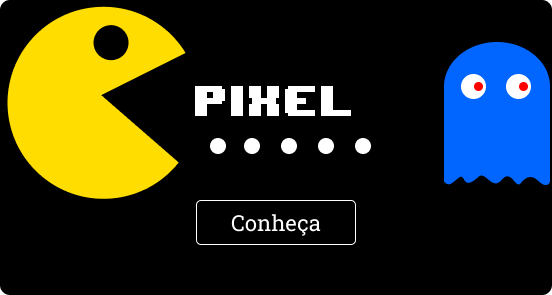
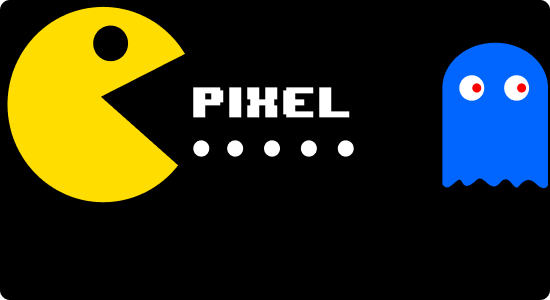
home completa

diff --git a/assets/css/styles.css b/assets/css/styles.css
@@ -82,11 +82,15 @@ img.img-fluid {
   border: 1px solid #6699ff;
   filter: brightness(0.645);
 }
+.form-email-contact input{
+  border-color: #004C92;
+  border-width: 2px;
+}
 
 .form-email-contact{
   background: #F2F2F2;
-  padding: 50px 0;
   margin: 0 auto;
+  border-top: 3px solid #4F4F4F;
 }
 .title-email-home{
   background: #F2F2F2;
@@ -94,17 +98,13 @@ img.img-fluid {
   margin: 0 auto;
 }
 
-.form-home .form-group .form-control:focus {
-  border: 2px solid #00cc0050;
-  box-shadow: 0 0 15px #00cc0050;
-}
-
 .title-home {
   font-weight: 100;
 }
 
-.main-text-home {
+.paragrafo {
   font-size: 20px;
+  line-height: 35px;
 }
 
 .text-comment-name {
@@ -118,6 +118,9 @@ img.img-fluid {
 a.active {
   color: #6699FF;
   text-decoration: underline;
+}
+button:focus {
+  outline-color: #6699FF;
 }
 .quem-somos .card {
   max-width:  480px;
@@ -193,4 +196,9 @@ article > .bg-opacidade {
 .acao-aventura .banner-2 {
   background: url(../images/rio-artigo.png) center;
   background-size: cover;
+}
+.btn-conheca {
+  bottom: 50px;
+  left: 50%;
+  transform: translate(-50%);
 }

diff --git a/pages/home.php b/pages/home.php
@@ -1,21 +1,15 @@
-<main class="pagina-home container mt-5">
-    <div class="row d-flex justify-content-center">
-        <div class="col-lg-8 text-center">
-            <h1 class="title-home">Jogos que são lançados aqui no Brasil mas não temos a menor ideia. </h1>
-        </div>
-    </div>
-    <div class="row autor-postagem pt-5 mt-3">
-        <figure class="col-lg-6 d-flex justify-content-md-start justify-content-sm-center">
+<main class="pagina-home container-md">
+    <h1 class="font-weight-bold my-5">Jogos que são lançados aqui no Brasil mas não temos a menor ideia. </h1>
+    <section class="row mb-3 align-items-center">
+        <figure class="d-flex mb-0 col-6">
             <img src="./assets/images/alex_sm.png" class="rounded-circle img-perfil mr-3" alt="Imagem de perfil do autor da postagem">
-            <figcaption>
-                <div class="d-flex">
-                    <p class="font-weight-normal mb-0 nome">Alex Teixeira</p>
-                    <a href="#" class="btn btn-success bg-transparent text-success ml-3 p-1" target="_blank">Seguir</a>
-                </div>
-                <p class="font-weight-light mb-0 mt-1">22 de setembro de 2020</p>
+            <figcaption class="row align-items-center">
+                <p class="font-weight-light mb-0 col-auto">Alex Teixeira</p>
+                <a href="#" class="btn btn-success bg-transparent text-success ml-3 p-1 col-auto" target="_blank">Seguir</a>
+                <p class="font-weight-light mb-0 mt-2 col-12">22 de setembro de 2020</p>
             </figcaption>
         </figure>
-        <ul class="list-inline d-flex mb-0 col-lg-6 p-sm-5 align-items-center justify-content-end justify-content-sm-center">
+        <ul class="list-inline d-flex col-6 mb-0 justify-content-end">
             <li class="mx-3">
                 <a href="https://www.facebook.com/" target="_blank">
                     <img src="./assets/icons/facebook-black.svg" alt="Logomarca Facebook">
@@ -37,120 +31,106 @@
                 </a>
             </li>
         </ul>
-    </div>
-    <div class="row">
-        <div class="col-12">
-            <img class="img-fluid" src="./assets/images/banner_home.jpg" alt="Um homem utilizando seu computador">
-        </div>
-    </div>
-    <div class="row">
-        <div class="modal fade" id="modalExemplo" tabindex="-1" role="dialog" aria-labelledby="exampleModalLabel" aria-hidden="true">
-            <div class="modal-dialog" role="document">
-                <div class="modal-content">
-                    <div class="modal-header">
-                        <h5 class="modal-title" id="exampleModalLabel">Comentários</h5>
-                        <button type="button" class="close" data-dismiss="modal" aria-label="Fechar">
-                            <span aria-hidden="true">&times;</span>
-                        </button>
-                    </div>
-                    <div class="modal-body">
-                        <p>POST SHOW ALEX!</p>
-                        <small class="text-comment-name">MrFall</small>
-                        <hr>
-                        <p>PARABENS!!!</p>
-                        <small class="text-comment-name">shaolinmatadordeporco</small>
-                        <hr>
-                        <p>SURPREENDENTE!!!</p>
-                        <small class="text-comment-name">viniccius13</small>
-                        <hr>
-                    </div>
-                    <div class="modal-footer">
-                        <button type="button" class="btn btn-secondary" data-dismiss="modal">Fechar</button>
-                    </div>
-                </div>
-            </div>
-        </div>
+        <img class="img-fluid mt-3" src="./assets/images/banner_home.jpg" alt="Um homem utilizando seu computador">
         <div class="col-3 d-flex align-items-center reacoes p-4">
             <img class="m-1" src="./assets/icons/like.svg" alt="Icone de joia representando 'gostei'">
-            <p class="m-1">12k</p>
+            <span class="m-1">12k</span>
             <img class="m-1" data-toggle="modal" data-target="#modalExemplo" src="./assets/icons/comentarios.svg" alt="Icone de chat representando 'número de comentários'">
-            <p class="m-1">39</p>
+            <span class="m-1">39</span>
             <img class="m-1" src="./assets/icons/save.svg" alt="Icone de coração representando 'salvar'">
-            <p class="m-1">Salvar</p>
+            <span class="m-1">Salvar</span>
         </div>
-    </div>
-    <div class="row d-flex justify-content-center align-items-center">
-        <div class="col-12 col-lg-9">
-            <p class="main-text-home">
-                Lorem ipsum dolor sit amet, consectetur adipiscing elit. Mauris lacinia semper aliquet. Nunc suscipit ullamcorper elit sit amet finibus. Ut et velit fringilla magna tempus ultrices facilisis et leo. Duis a metus eu justo accumsan auctor. Sed eu odio magna. Suspendisse enim dolor, consectetur quis ullamcorper sed, imperdiet non ex. Proin eros dolor, dictum vel lacinia eu, commodo quis sapien. Suspendisse laoreet leo vel lectus gravida, non faucibus velit euismod. Cras vulputate pulvinar porttitor. Vivamus vitae tempor nisi. Sed fermentum sapien augue, sodales blandit mauris porttitor nec. Etiam efficitur odio id imperdiet sollicitudin. Donec auctor dui id lacus tempor, et aliquet risus viverra. Pellentesque dolor lectus, lobortis id ante condimentum, tincidunt elementum risus.
-            </p>
-
-            <p class="main-text-home">Duis nec sollicitudin nisi. Nunc eget pellentesque purus. Donec sed condimentum ipsum. Phasellus non vulputate magna. Vestibulum nec dignissim tortor. Nulla ultricies, orci et blandit fermentum, metus dolor interdum lacus, eget luctus nisi felis et quam. Fusce egestas euismod erat sit amet eleifend. Donec porta, nulla id ullamcorper maximus, magna arcu tincidunt nisl, ac ultricies mi risus ornare ex. Sed purus ligula, fringilla a diam vitae, aliquam gravida nisi. Vivamus accumsan iaculis turpis, id elementum erat suscipit ac. Nulla non tempor massa.</p>
-        </div>
-    </div>
-    <div class="row d-flex justify-content-center align-items-center">
-        <div class="col-lg-4 col-md-9 text-center">
-            <img src="./assets/images/artigo-home.png" class="img-fluid mb-2" alt="Uma mesa de madeira com um teclado preto, um celular, notebook, caixa de som e um monitor">
-        </div>
-        <div class="col-lg-5 col-md-9">
-            <p class="main-text-home">Duis nec sollicitudin nisi. Nunc eget pellentesque purus. Donec sed condimentum ipsum. Phasellus non vulputate magna. Vestibulum nec dignissim tortor. Nulla ultricies, orci et blandit fermentum, metus dolor interdum lacus, eget luctus nisi felis et quam. Fusce egestas euismod erat sit amet eleifend. Donec porta, nulla id ullamcorper maximus, magna arcu tincidunt nisl, ac ultricies mi risus ornare ex. Sed purus ligula, fringilla a diam vitae, aliquam gravida nisi. Vivamus accumsan iaculis turpis, id elementum erat suscipit ac. Nulla non tempor massa.</p>
-        </div>
-    </div>
-    <div class="row m-2 mt-4 m-lg-5 d-flex justify-content-center align-items-center">
-        <div class="col-12 col-lg-6 text-center">
-            <h3>Conheça os estilos de jogos que são lançados aqui no Brasil e as empresas que os criaram.</h3>
-            <hr>
-        </div>
-    </div>
-    <div class="row m-lg-4">
-        <div class="col-lg-6 col-md-12 text-center games-home">
-            <div class="terror">
-                <a href="./index.php?view=terror"><img class="img-fluid m-lg-2 mb-4 mb-lg-0" src="./assets/images/terror.png" alt="Ilustração de um cartão com desenhos sobre jogos de terror"></a>
+    </section>
+    <section class="row justify-content-center">
+        <p class="paragrafo col-11">
+            Lorem ipsum dolor sit amet, consectetur adipiscing elit. Mauris lacinia semper aliquet. Nunc suscipit ullamcorper elit sit amet finibus. Ut et velit fringilla magna tempus ultrices facilisis et leo. Duis a metus eu justo accumsan auctor. Sed eu odio magna. Suspendisse enim dolor, consectetur quis ullamcorper sed, imperdiet non ex. Proin eros dolor, dictum vel lacinia eu, commodo quis sapien. Suspendisse laoreet leo vel lectus gravida, non faucibus velit euismod. Cras vulputate pulvinar porttitor. Vivamus vitae tempor nisi. Sed fermentum sapien augue, sodales blandit mauris porttitor nec. Etiam efficitur odio id imperdiet sollicitudin. Donec auctor dui id lacus tempor, et aliquet risus viverra. Pellentesque dolor lectus, lobortis id ante condimentum, tincidunt elementum risus.
+        </p>
+        <p class="paragrafo col-11">Duis nec sollicitudin nisi. Nunc eget pellentesque purus. Donec sed condimentum ipsum. Phasellus non vulputate magna. Vestibulum nec dignissim tortor. Nulla ultricies, orci et blandit fermentum, metus dolor interdum lacus, eget luctus nisi felis et quam. Fusce egestas euismod erat sit amet eleifend. Donec porta, nulla id ullamcorper maximus, magna arcu tincidunt nisl, ac ultricies mi risus ornare ex. Sed purus ligula, fringilla a diam vitae, aliquam gravida nisi. Vivamus accumsan iaculis turpis, id elementum erat suscipit ac. Nulla non tempor massa.</p>
+        <figure class="col-12 col-md-4 m-0">
+            <img src="./assets/images/artigo-home.png" class="d-none d-md-block img-fluid" alt="Uma mesa de madeira com um teclado preto, um celular, notebook, caixa de som e um monitor">
+            <img src="./assets/images/artigo-home-md.png" class="d-block d-md-none img-fluid" alt="Uma mesa de madeira com um teclado preto, um celular, notebook, caixa de som e um monitor">
+        </figure>
+        <p class="paragrafo col-12 col-md-8">Duis nec sollicitudin nisi. Nunc eget pellentesque purus. Donec sed condimentum ipsum. Phasellus non vulputate magna. Vestibulum nec dignissim tortor. Nulla ultricies, orci et blandit fermentum, metus dolor interdum lacus, eget luctus nisi felis et quam. Fusce egestas euismod erat sit amet eleifend. Donec porta, nulla id ullamcorper maximus, magna arcu tincidunt nisl, ac ultricies mi risus ornare ex. Sed purus ligula, fringilla a diam vitae, aliquam gravida nisi. Vivamus accumsan iaculis turpis, id elementum erat suscipit ac. Nulla non tempor massa.</p>
+    </section>
+    <section class="my-5">
+        <h2 class="px-2">Conheça os estilos de jogos que são lançados <br> aqui no Brasil e as empresas que os criaram.</h2>
+        <hr class="mb-5">
+        <div class="row">
+            <div class="col-12 col-md-6 mb-4 position-relative">
+                <img class="img-fluid" src="./assets/images/terror.png" alt="Ilustração de um cartão com desenhos sobre jogos de terror">
+                <a href="./index.php?view=terror" class="btn btn-outline-light px-4 position-absolute btn-conheca">
+                    Conheça
+                </a>
+            </div>
+            <div class="col-12 col-md-6 mb-4 position-relative">
+                <img class="img-fluid" src="./assets/images/acao-aventura.png">
+                <a href="./index.php?view=acao-aventura" class="btn btn-outline-light px-4 position-absolute btn-conheca">
+                    Conheça
+                </a>
+            </div>
+            <div class="col-12 col-md-6 mt-1 mb-4 position-relative">
+                <img class="img-fluid" src="./assets/images/rpg.png" alt="Ilustração de um cartão com desenhos sobre jogos de RPG">
+                <a href="./index.php?view=rpg" class="btn btn-outline-light px-4 position-absolute btn-conheca">
+                    Conheça
+                </a>
+            </div>
+            <div class="col-12 col-md-6 mt-1 mb-4 position-relative">
+                <img class="img-fluid" src="./assets/images/pixel.png" alt="Ilustração de um cartão com desenhos sobre jogos feitos em Pixels">
+                <a href="./index.php?view=pixel" class="btn btn-outline-light px-4 position-absolute btn-conheca">
+                    Conheça
+                </a>
             </div>
         </div>
-        <div class="col-lg-6 col-md-12 text-center games-home">
-            <div class="acao">
-                <a href="./index.php?view=acao-aventura"><img class="img-fluid m-lg-2 mb-4 mb-lg-0" src="./assets/images/acao.png"></a>
-            </div>
-        </div>
-    </div>
-    <div class="row m-lg-4 games-home">
-        <div class="col-lg-6 col-md-12 text-center games-home">
-            <div class="rpg">
-                <a href="./index.php?view=rpg"><img class="img-fluid m-lg-2 mb-4 mb-lg-0" src="./assets/images/rpg.png" alt="Ilustração de um cartão com desenhos sobre jogos de RPG"></a>
-            </div>
-        </div>
-        <div class="col-lg-6 col-md-12 text-center games-home">
-            <div class="pixel">
-                <a href="./index.php?view=pixel"><img class="img-fluid m-lg-2 mb-4 mb-lg-0" src="./assets/images/pixel.png" alt="Ilustração de um cartão com desenhos sobre jogos feitos em Pixels"></a>
-            </div>
-        </div>
-    </div>
-    <div class="row d-flex justify-content-center align-items-center text-center title-email-home mt-4">
-        <h1>Receba as notícias na hora em que elas acontecem</h1>
-    </div>
-    <div class="row d-flex justify-content-center align-items-center form-email-contact">
-        <div class="col-lg-5 col-md-8 col-sm-6">
+    </section>
+    <section class="row justify-content-center align-items-center form-email-contact">
+        <h5 class="col-12 text-center my-4">Receba as notícias na hora em que elas acontecem</h5>
+        <div class="col-12 col-md-6">
             <form class="p-2 form-home">
                 <div class="form-group">
-                    <input type="text" class="form-control" placeholder="Digite seu nome completo ">
+                    <label for="nome" class="font-weight-light">Nome:</label>
+                    <input type="text" id="nome" class="form-control py-1" placeholder="Digite seu nome completo ">
                 </div>
                 <div class="form-group">
-                    <input type="email" class="form-control" placeholder="teste@email.com">
+                    <label for="email" class="font-weight-light">Email:</label>
+                    <input type="email" id="email" class="form-control py-1" placeholder="teste@email.com">
                 </div>
             </form>
         </div>
-        <div class="col-lg-4 col-md-8 col-sm-6 p-2 text-center">
-            <p>
+        <div class="col-10 col-md-6 col-lg-4 p-2">
+            <p class="font-weight-light text-center">
                 Te ajudamos com as notícias essenciais para começar o seu dia da melhor forma possivel.
             </p>
-            <label for="send" class="btn btn-primary p-0 d-flex justify-content-center align-items-center button-send-mail">
-                <span class="m-2">
-                    <img id="sendmail" src="./assets/icons/sendmail.svg" alt="Icone de carta representando o envio de uma mensagem">
-                </span>
+            <a href="#" class="btn btn-primary p-0 d-flex justify-content-center align-items-center button-send-mail">
+                <img id="sendmail" class="m-2" src="./assets/icons/sendmail.svg" alt="Icone de carta representando o envio de uma mensagem">
                 Aceito Receber Novidades
-            </label>
-            <small>Você receberá um e-mail de confirmação em seguida.</small>
+            </a>
+            <small class="font-weight-light">Você receberá um e-mail de confirmação em seguida.</small>
+        </div>
+    </section>
+</main>
+<div class="modal fade" id="modalExemplo" tabindex="-1" role="dialog" aria-labelledby="exampleModalLabel" aria-hidden="true">
+    <div class="modal-dialog" role="document">
+        <div class="modal-content">
+            <div class="modal-header">
+                <h5 class="modal-title" id="exampleModalLabel">Comentários</h5>
+                <button type="button" class="close" data-dismiss="modal" aria-label="Fechar">
+                    <span aria-hidden="true">&times;</span>
+                </button>
+            </div>
+            <div class="modal-body">
+                <p>POST SHOW ALEX!</p>
+                <small class="text-comment-name">MrFall</small>
+                <hr>
+                <p>PARABENS!!!</p>
+                <small class="text-comment-name">shaolinmatadordeporco</small>
+                <hr>
+                <p>SURPREENDENTE!!!</p>
+                <small class="text-comment-name">viniccius13</small>
+                <hr>
+            </div>
+            <div class="modal-footer">
+                <button type="button" class="btn btn-secondary" data-dismiss="modal">Fechar</button>
+            </div>
         </div>
     </div>
-</main>
+</div>
